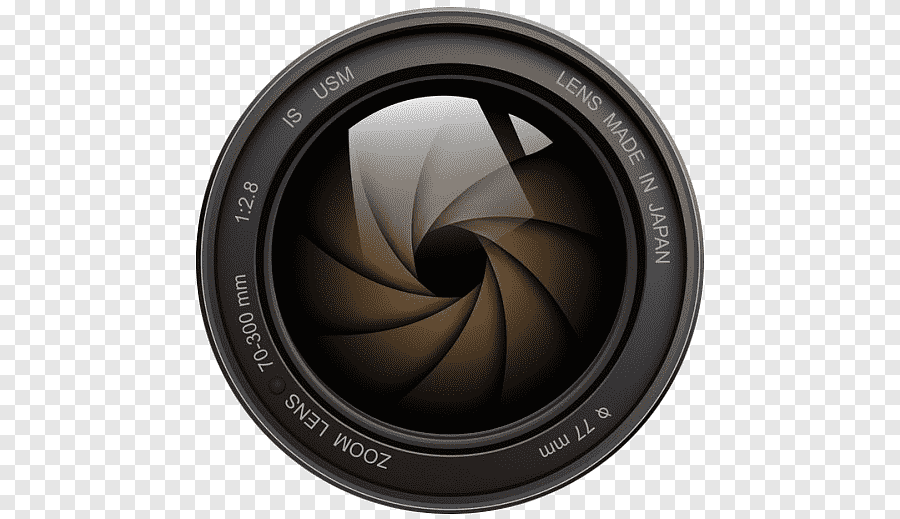
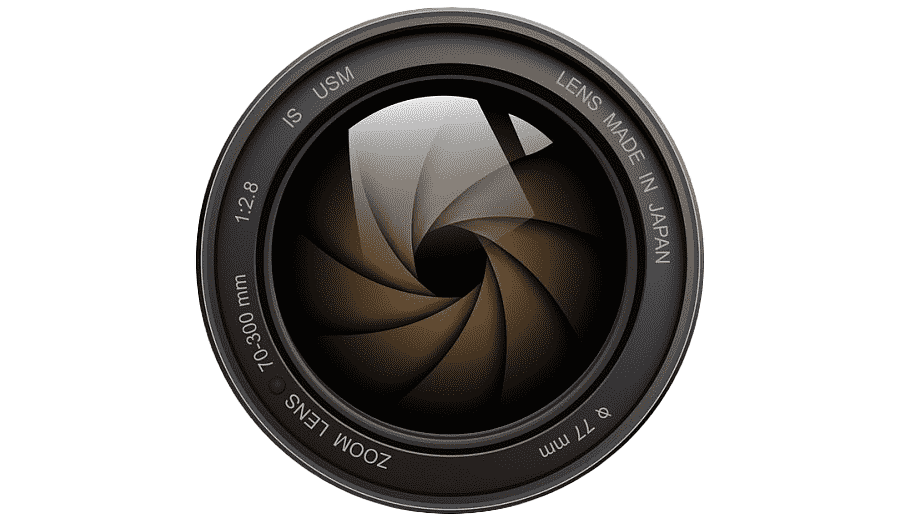
Kamera Bild geändert und Hover Effekt hinzugefügt

Changed region(s): [[0.0, 0.0, 1.0, 1.0]]

diff --git a/style.css b/style.css
@@ -10,7 +10,6 @@ body{
     position: 100%;
     height: 720px;
     align-items: center;
-    outline: 2px solid #ff00ff;
 }
 
 #title_bg{
@@ -73,7 +72,6 @@ body{
 }
 
 #Kachel_Container{
-    outline: 2px solid #ff00ff;
     display: flex;
     justify-content: space-between;
 
@@ -98,12 +96,29 @@ body{
     padding: 15px;
     box-sizing: border-box;
     text-decoration: none;
-    transition: transform 0.2s ease, background 0.2 ease;
+    transition: all 0.3s ease;
 }
 
 .Kachel:hover{
     transform: scale(1.02);
     background: rgba(13, 27, 42, 0.85);
+}
+
+.kachel-apps:hover {
+    /* 1. Schatten: Enger, heller Kern | 2. Schatten: Breites, weiches Auslaufen */
+    box-shadow: 0 0 15px 2px rgba(0, 230, 255, 0.9), 
+                0 0 40px 8px rgba(0, 180, 216, 0.5); 
+    border-color: rgba(0, 230, 255, 0.8);
+}
+
+/* --- Spezifischer Neon-Glow für die Fotografie Kachel (Warmes Gold) --- */
+.kachel-fotografie:hover {
+    /* 1. Schatten: Enger, hellgelber Kern | 2. Schatten: Breites, goldenes Auslaufen */
+    box-shadow: 0 0 15px 2px rgba(255, 246, 213, 0.9), 
+                0 0 40px 8px rgba(243, 237, 146, 0.5); 
+    
+    /* Der Rand leuchtet im helleren Gold-Ton auf */
+    border-color: rgba(255, 246, 213, 0.8);
 }
 
 .kachel-bild-box{

diff --git a/index.html b/index.html
@@ -25,7 +25,7 @@
       <section id="Kachel_Container">
         
         <!--Rechte Kachel-->
-        <a href="" class="Kachel" id="Kachel-Rechts">
+        <a href="" class="Kachel kachel-apps" id="Kachel-Links">
              <div class="kachel-bild-box" id="bild-box-links">
                 <img src="assets/bilder/brain-image.png" alt="Apps Icon" >
              </div>
@@ -41,7 +41,7 @@
        
         
         <!--Linke Kachel-->
-        <a href="" class="Kachel" id="Kachel-Links">
+        <a href="" class="Kachel kachel-fotografie" id="Kachel-Rechts">
              <div class="kachel-bild-box">
                 <img src="assets/bilder/camera-lens.png" alt="Fotografie Icon">
              </div>